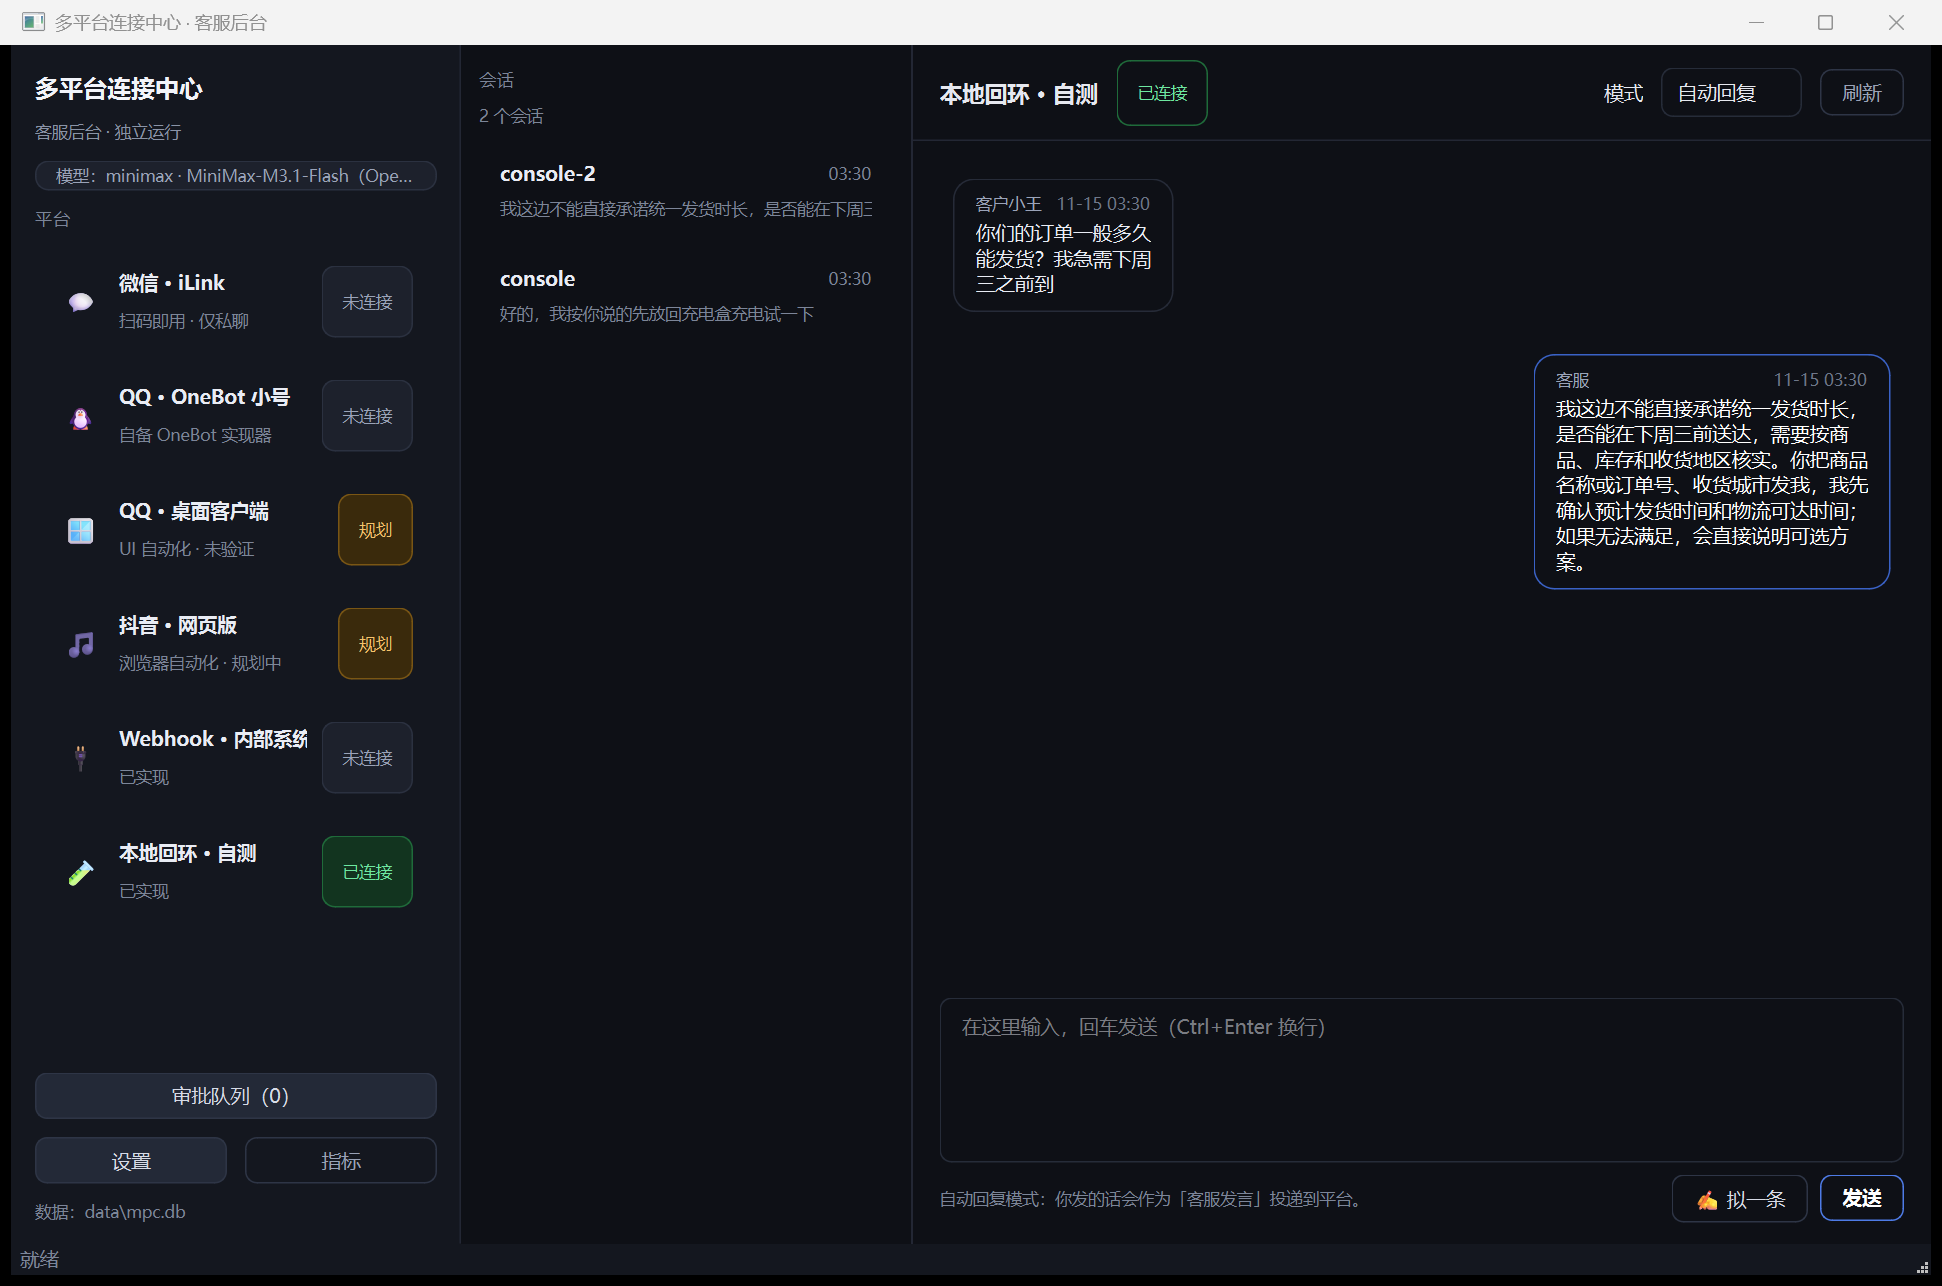
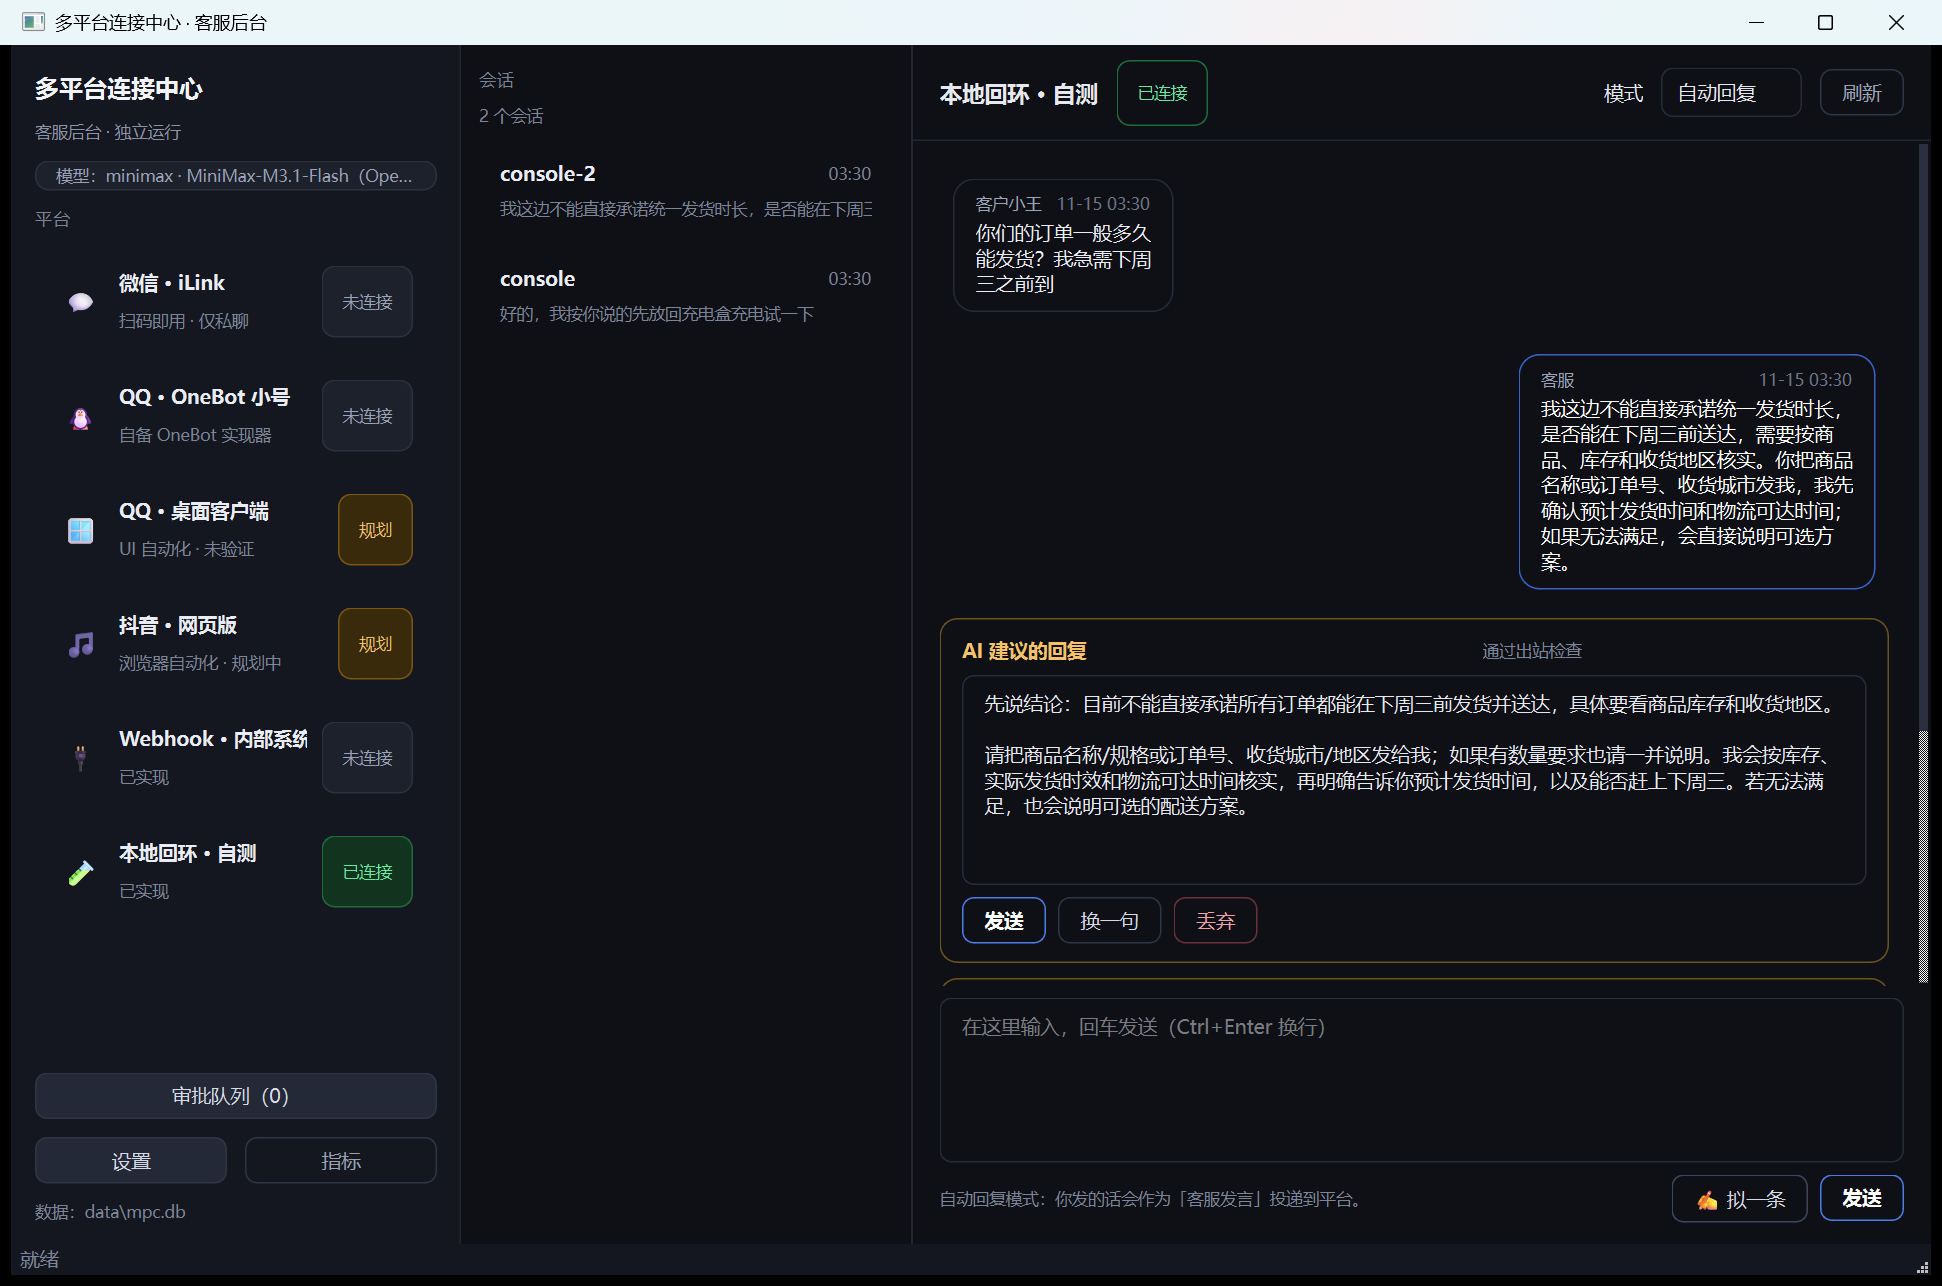
docs: 换上真实桌面端截图（含 AI 建议卡片），README 补手动接管说明

diff --git a/README.md b/README.md
@@ -11,7 +11,7 @@
 ![桌面端](docs/screenshot.png)
 
 > 左边是**平台选择层**（微信 iLink / QQ OneBot 小号 / QQ 桌面客户端 / 抖音 网页版 / Webhook / 本地回环），
-> 中间是会话列表，右边是**嵌入式聊天窗**：agent 自动回的和你手动接管着发的都在这一屏里。
+> 中间是会话列表，右边是**嵌入式聊天窗**：agent 自动回的、主人手动接管发的、以及 agent 起草等你点头的「AI 建议的回复」都在这一屏里。
 
 ---
 
